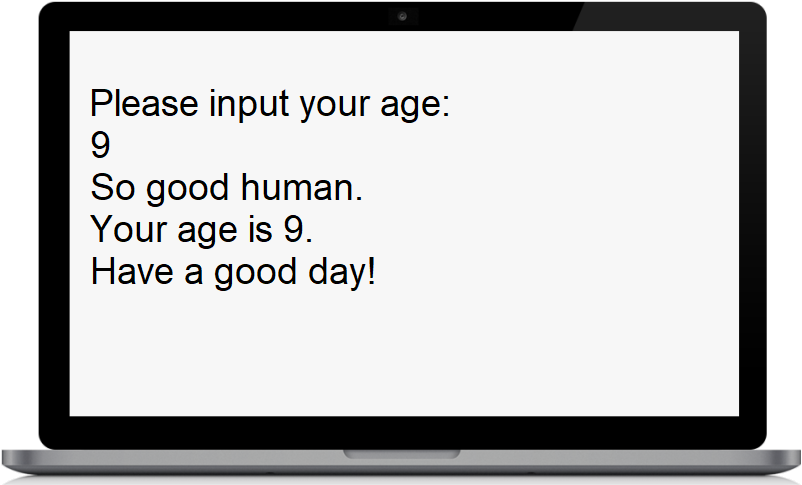
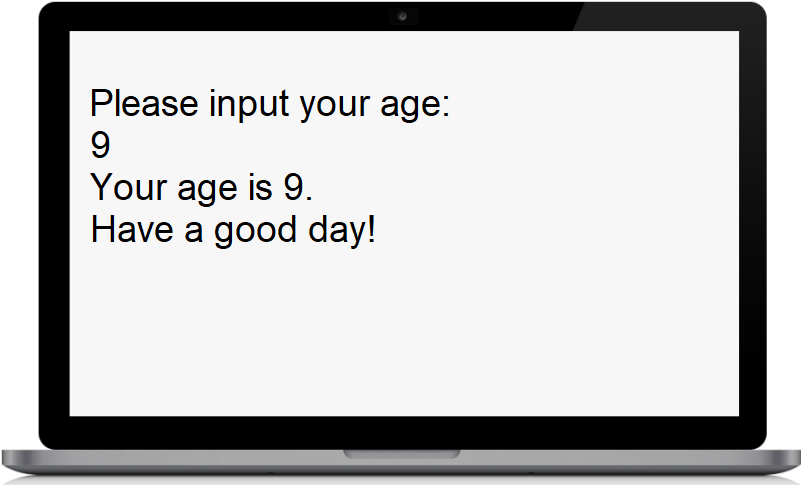
Add files via upload

Changed region(s): [[0.0935, 0.3402, 0.4676, 0.6186]]

diff --git a/index.html b/index.html
@@ -2128,7 +2128,6 @@
 	  	<td>&nbsp</td>
 		<td>
 		<a style="background-color: #00FFFF">
-		So good human.<br>
 		Your age is 9.<br>
 		Have a good day!
 		</a>	
@@ -2151,7 +2150,6 @@
 	  	<td>&nbsp</td>
 		<td>
 		<a style="background-color: #00FFFF">
-		So good human.<br>
 		Your age is 12.<br>
 		Have a good day!
 		</a>	
